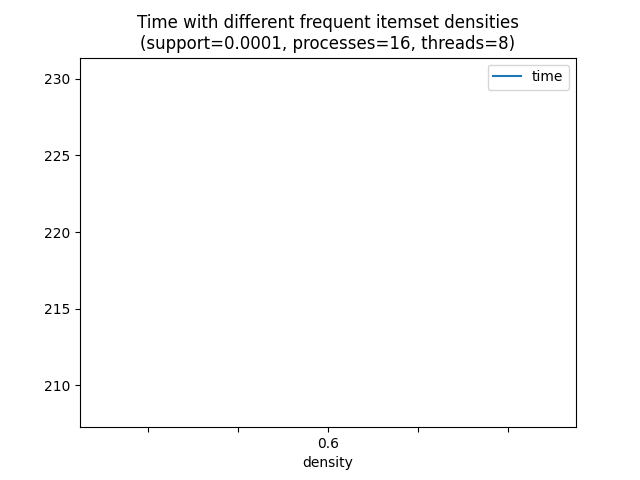
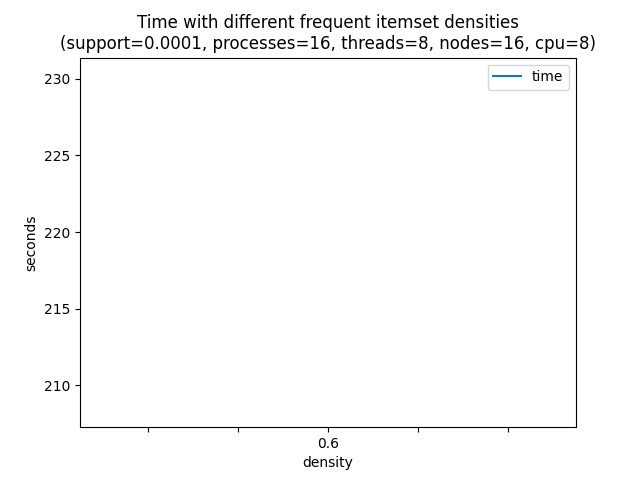
Improve plot script

Changed region(s): [[0.0938, 0.0625, 0.9375, 0.125], [0.0312, 0.4375, 0.0625, 0.5625]]

diff --git a/project/sub_results/analyze.py b/project/sub_results/analyze.py
@@ -1,10 +1,11 @@
-from functools import reduce
+# from functools import reduce
 import pandas as pd
 import numpy as np
 import os
 import sys
 import matplotlib.pyplot as plt
 from collections import namedtuple
+
 RESULTS_DIR = '../../../res'
 OUTPUT_DIR = 'plots/'
 
@@ -22,15 +23,14 @@ DEFAULT_PARAMS = Config(
 def load_dataset(dir_path):
     dataset = pd.DataFrame()
     for file_path in filter(lambda x: x.startswith('out_'), os.listdir(dir_path)):
-        _, timestamp, _, support, processes, threads, density = file_path.split(
-            '_')
+        _, ts, _, s, p, t, d = file_path.split('_')
         tmp = pd.read_csv(os.path.join(dir_path, file_path), sep=', ', engine='python') \
             .assign(
-                timestamp=timestamp,
-                support=support,
-                processes=processes,
-                threads=threads,
-                density=density
+                timestamp=ts,
+                support=s,
+                processes=p,
+                threads=t,
+                density=d
         )
         dataset = dataset.append(tmp, ignore_index=True, sort=False)
 
@@ -46,37 +46,48 @@ def aggregate_run_times(dataset):
 
 
 def default_config(dataset, excluded_param):
+    # mask = reduce(lambda x, y: x & (dataset[y.name] == y.default),
+    #               filter(lambda x: x != excluded_param, DEFAULT_PARAMS),
+    #               pd.Series((True for _ in range(dataset.shape[0]))))
     mask = pd.Series((True for _ in range(dataset.shape[0])))
-    for param in DEFAULT_PARAMS:
-        if not param == excluded_param:
-            mask &= dataset[param.name] == param.default
+    for param in filter(lambda x: x != excluded_param, DEFAULT_PARAMS):
+        mask &= dataset[param.name] == param.default
     return dataset[mask]
 
 
 def get_plot_title(excluded_param):
+    params = ', '.join(f"{param.name}={param.default}" for param in DEFAULT_PARAMS
+                       if param != excluded_param)
     return f"""Time with different {excluded_param.long}
-({', '.join(f"{param.name}={param.default}" 
-    for param in DEFAULT_PARAMS
-    if param != excluded_param)})"""
+({params}, nodes=16, cpu=8)"""
 
 
 def plot_vary_param(dataset, param, out):
-    print(default_config(dataset, excluded_param=param).sort_values(
-        by=[param.name], key=lambda c: pd.to_numeric(c)))
+    # print(default_config(dataset, excluded_param=param).sort_values(
+    #     by=[param.name], key=lambda c: pd.to_numeric(c)))
 
     default_config(dataset, excluded_param=param) \
         .groupby(param.name).agg({'time': np.mean}) \
-        .sort_values(by=[param.name], key=lambda c: pd.to_numeric(c)) \
-        .plot()
+        .sort_values(by=[param.name],
+                     key=lambda c: pd.to_numeric(c)) \
+        .plot(ylabel='seconds',
+              title=get_plot_title(excluded_param=param)) \
 
-    plt.title(get_plot_title(excluded_param=param))
+
     plt.savefig(os.path.join(out, f'{param.name}.png'))
+
+
+def plot_count(dataset):
+    dataset.groupby(['processes', 'threads', 'density']
+                    ).agg({'timestamp': len}).plot(kind='bar')
+    plt.show()
 
 
 if __name__ == '__main__':
     basepath = os.path.dirname(sys.argv[0])
     dataset = load_dataset(os.path.join(basepath, RESULTS_DIR))
     dataset = aggregate_run_times(dataset)
+    plot_count(dataset)
     # print(dataset[(dataset['processes'] != '1') & (
     #     dataset['threads'] != '1')]['time'].max())
     # print(dataset)
